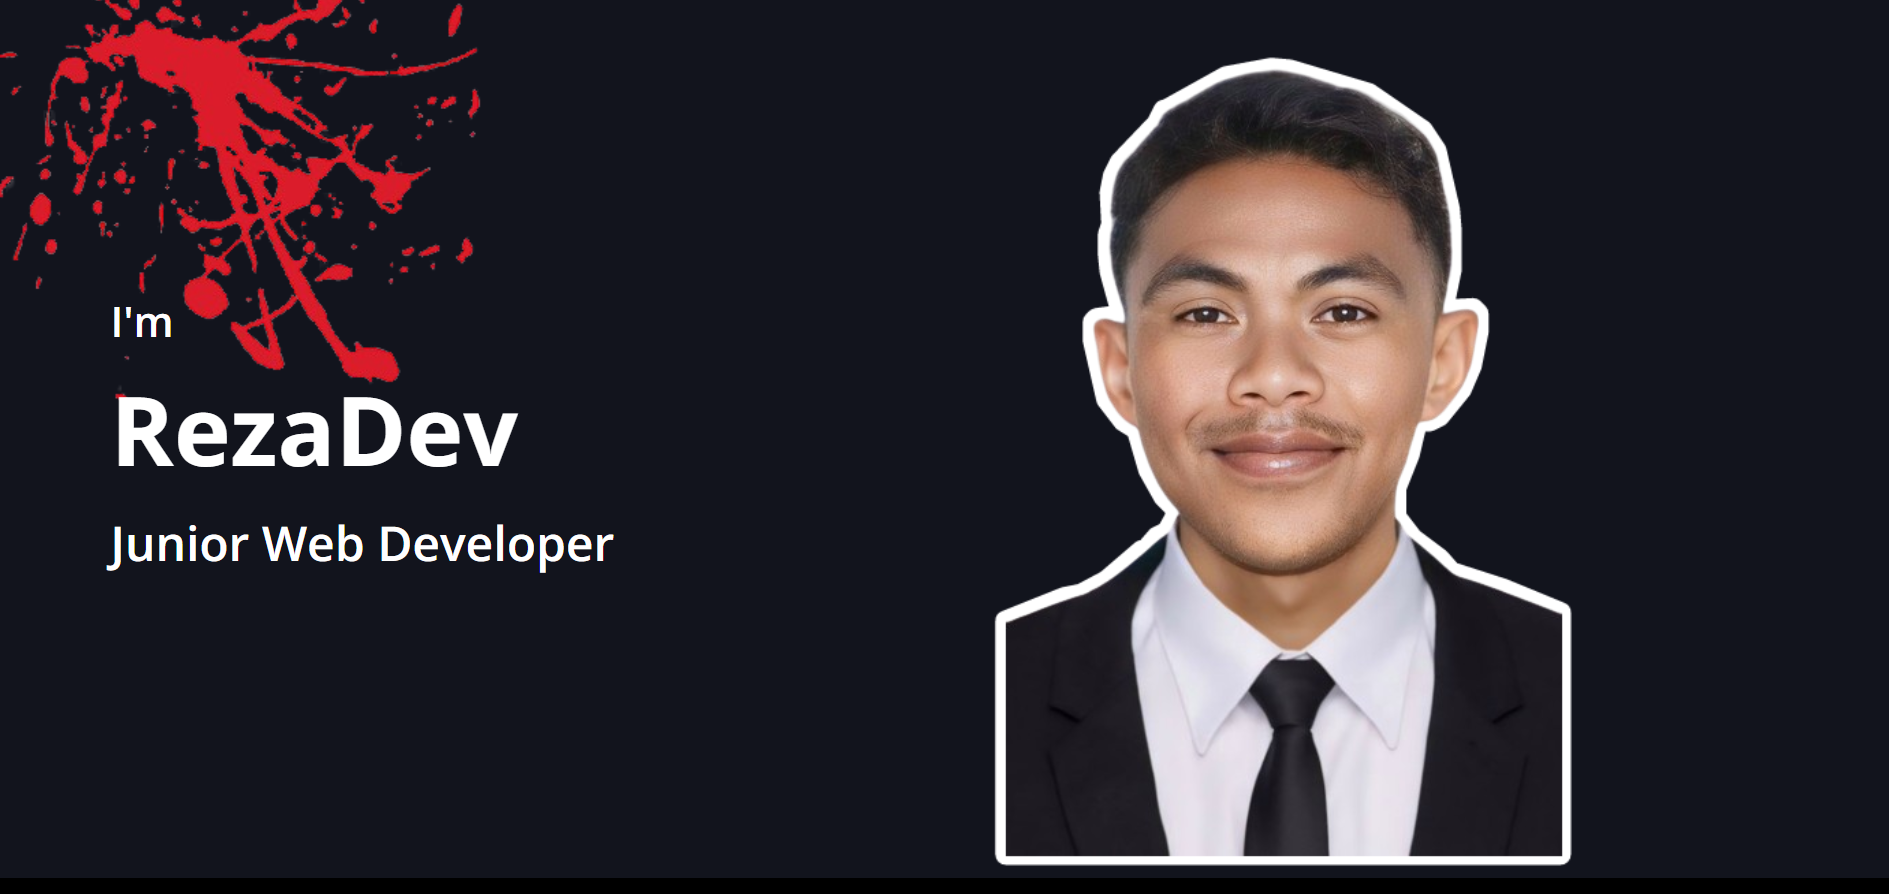
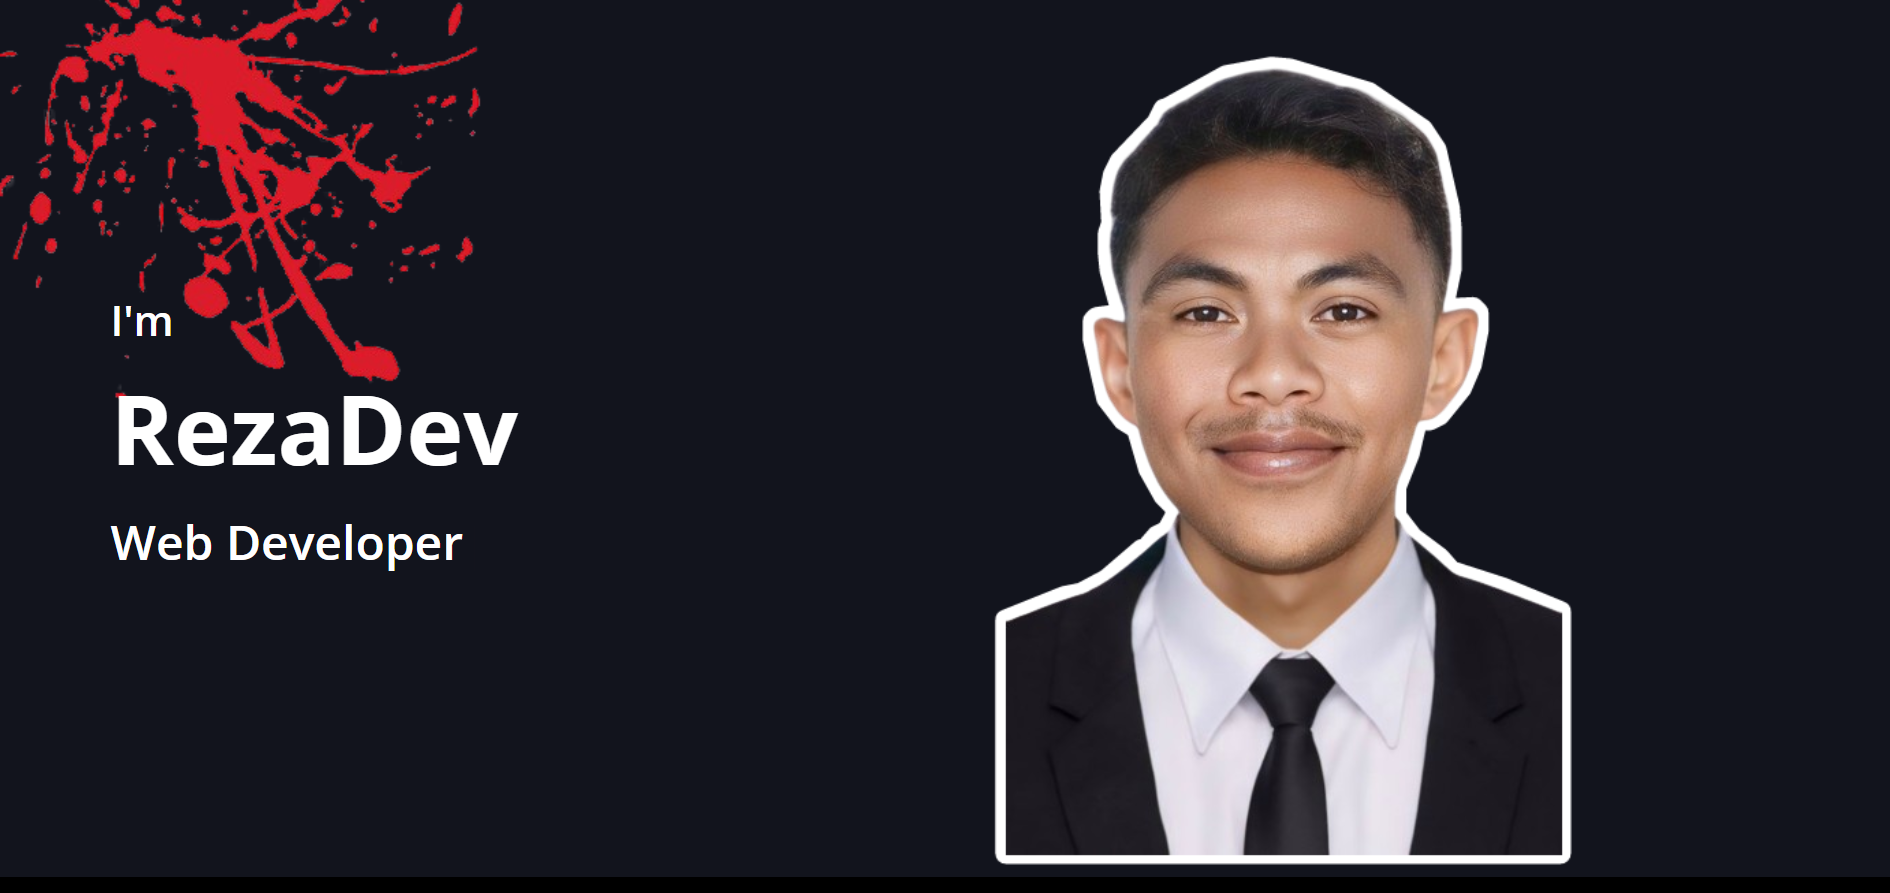
update index

diff --git a/index.html b/index.html
@@ -72,7 +72,7 @@
                     <h3 class="text-white mb-3">I'm</h3>
                     <h1 class="display-3 mb-3">RezaDev</h1>
                     <h2 class="typed-text-output d-inline"></h2>
-                    <div class="typed-text d-none">Junior Web Developer</div>
+                    <div class="typed-text d-none">Web Developer</div>
                 </div>
                 <div class="col-lg-6">
                     <img class="img-fluid" src="img/profile.png" alt="" width="400px">
